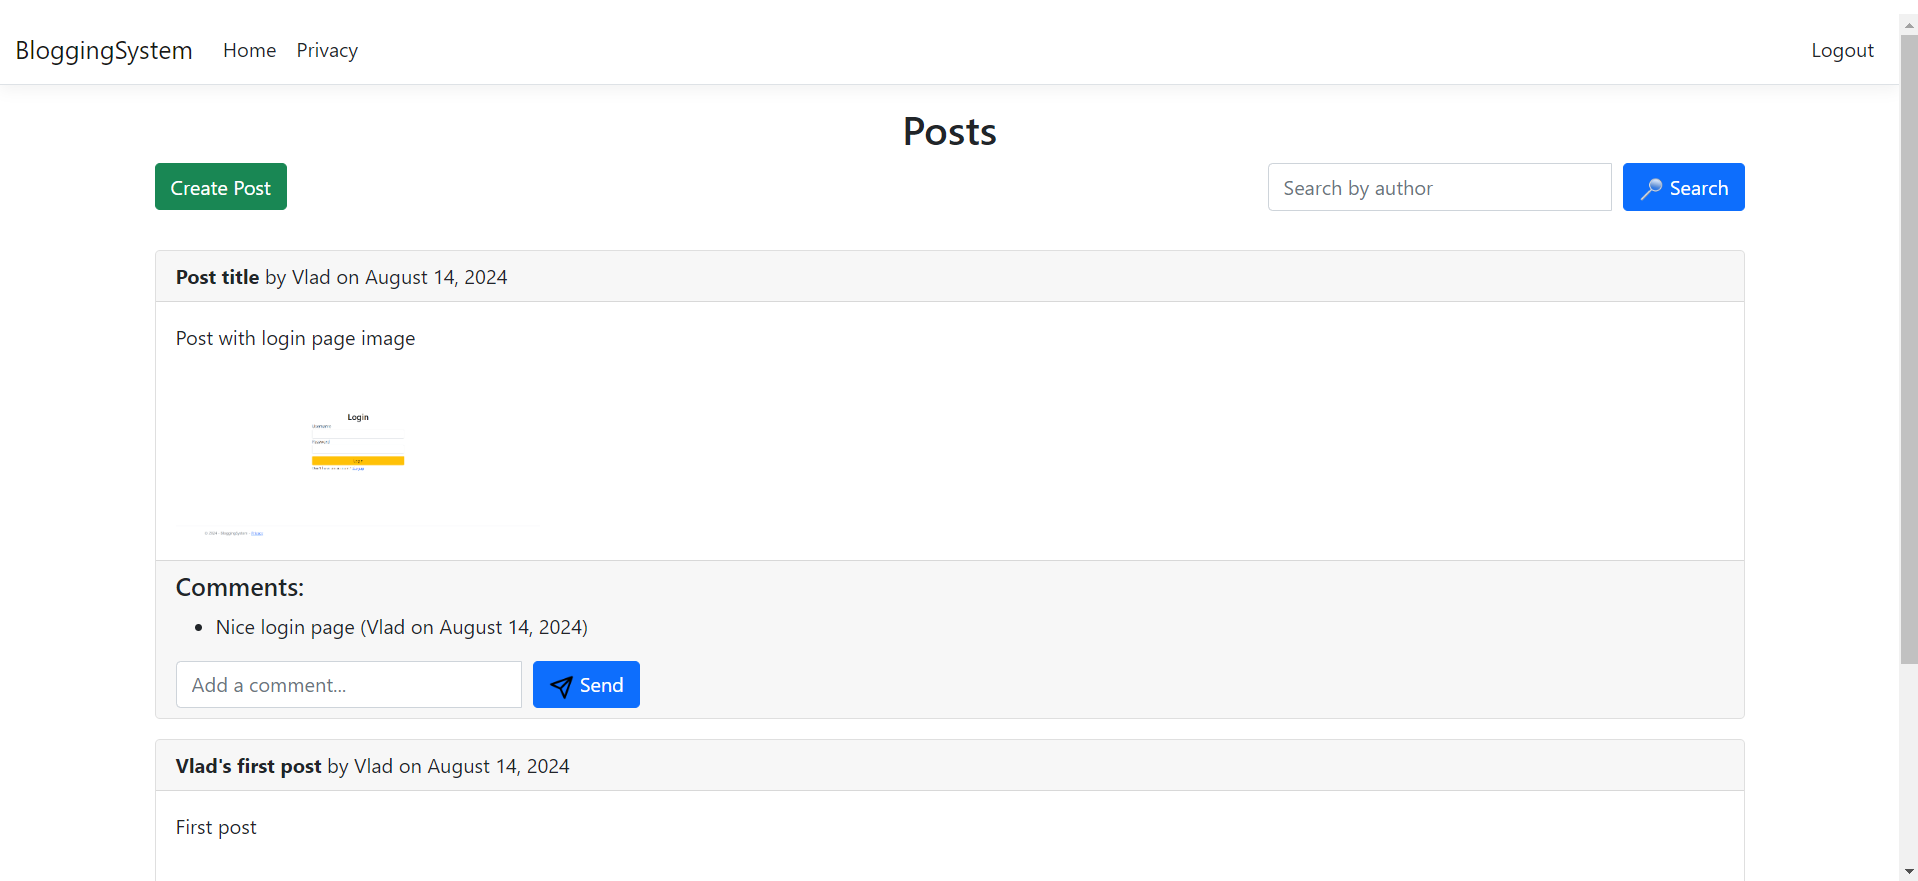
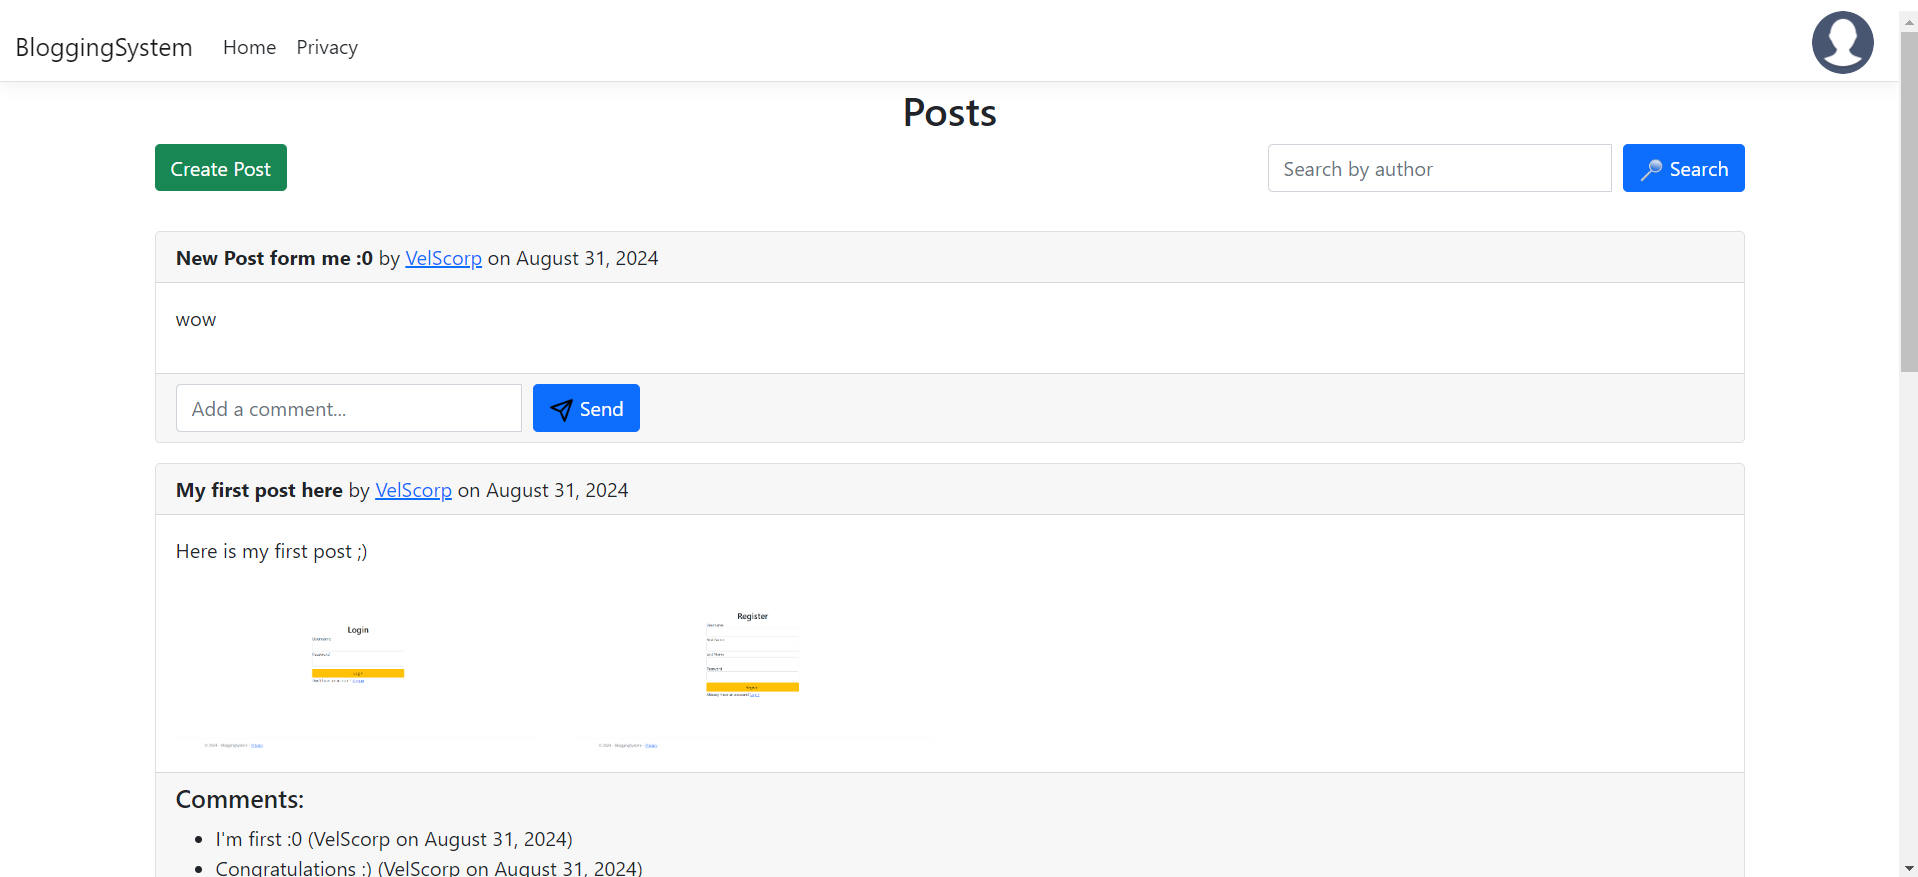
Updated Readme file with screenshots of new functionality

diff --git a/BloggingSystem/BloggingSystem/wwwroot/css/site.css b/BloggingSystem/BloggingSystem/wwwroot/css/site.css
@@ -78,6 +78,10 @@ form .btn {
 	border-radius: 50%;
 }
 
+.profile-photo-container {
+	height: 100px;
+}
+
 .profile-photo-container:hover .upload-overlay {
 	opacity: 1;
 }

diff --git a/BloggingSystem/BloggingSystem/Controllers/AuthController.cs b/BloggingSystem/BloggingSystem/Controllers/AuthController.cs
@@ -40,18 +40,7 @@ namespace BloggingSystem
 			try
 			{
 				var user = await _userRepository.AuthenticateUserAsync(credentials);
-
-				var claims = new List<Claim>
-				{
-					new Claim(ClaimTypes.Name, user.Username),
-					new Claim(ClaimTypes.UserData, user.Photo is null ? Url.Content("~/images/profile-icon.png") : _imageRepository.GetImageUrl(user.Photo)),
-				};
-
-				var claimsIdentity = new ClaimsIdentity(claims, CookieAuthenticationDefaults.AuthenticationScheme);
-
-				await HttpContext.SignInAsync(CookieAuthenticationDefaults.AuthenticationScheme,
-					new ClaimsPrincipal(claimsIdentity));
-
+				await SaveUserCookieAsync(user);
 				return RedirectToAction("Index", "Posts");
 			}
 			catch (Exception ex)
@@ -69,7 +58,8 @@ namespace BloggingSystem
 			try
 			{
 				var user = await _userRepository.RegisterUserAsync(credentials);
-				return RedirectToAction("Login", "Auth");
+				await SaveUserCookieAsync(user);
+				return RedirectToAction("Index", "Posts");
 			}
 			catch (Exception ex)
 			{
@@ -82,6 +72,20 @@ namespace BloggingSystem
 		{
 			await HttpContext.SignOutAsync(CookieAuthenticationDefaults.AuthenticationScheme);
 			return RedirectToAction("Login", "Auth");
+		}
+
+		private async Task SaveUserCookieAsync(User user)
+		{
+			var claims = new List<Claim>
+			{
+				new Claim(ClaimTypes.Name, user.Username),
+				new Claim(ClaimTypes.UserData, user.Photo is null ? Url.Content("~/images/profile-icon.png") : _imageRepository.GetImageUrl(user.Photo)),
+			};
+
+			var claimsIdentity = new ClaimsIdentity(claims, CookieAuthenticationDefaults.AuthenticationScheme);
+
+			await HttpContext.SignInAsync(CookieAuthenticationDefaults.AuthenticationScheme,
+				new ClaimsPrincipal(claimsIdentity));
 		}
 	}
 }

diff --git a/BloggingSystem/BloggingSystemRepository/Implementation/SearchService.cs b/BloggingSystem/BloggingSystemRepository/Implementation/SearchService.cs
@@ -21,7 +21,7 @@ namespace BloggingSystemRepository
 				.Index(_elasticsearchSettings.Index)
 				.Query(query => query
 					.Term(term => term
-						.Field(field => field.Author)
+						.Field(field => field.Author.ToLower())
 						.Value(author)
 					)
 				)

diff --git a/README.md b/README.md
@@ -5,8 +5,10 @@ The Blogging System is a modern web application for managing blog posts, built u
 ## Features
 
 - User Authentication & Authorization: Secure login and registration for users.
-- Create/Edit/Delete Blog Posts: Full CRUD (Create, Read, Update, Delete) functionality for blog posts.
+- Create/Delete Blog Posts: Full CRUD (Create, Read, Update, Delete) functionality for blog posts.
 - View Blog Posts: Display all blog posts, with options to search by author.
+- View Author profile: Display all blog posts, with author info.
+- View User profile: Display all blog posts, with user info and CRUD operations on posts.
 - Commenting System: Users can leave comments on blog posts.
 - Search Functionality: Fast and efficient search capabilities for blog posts using Elasticsearch.
 - Analytics & Monitoring: Real-time monitoring and visualization of application data with Kibana.
@@ -26,6 +28,12 @@ The Blogging System is a modern web application for managing blog posts, built u
 
 ### Create post page
 ![CreatePostPage](Screenshots/CreatePostPage.png)
+
+### Author page
+![AuthorPage](Screenshots/AuthorPage.png)
+
+### Profile page
+![ProfilePage](Screenshots/ProfilePage.png)
 
 ## Technologies Used
 
